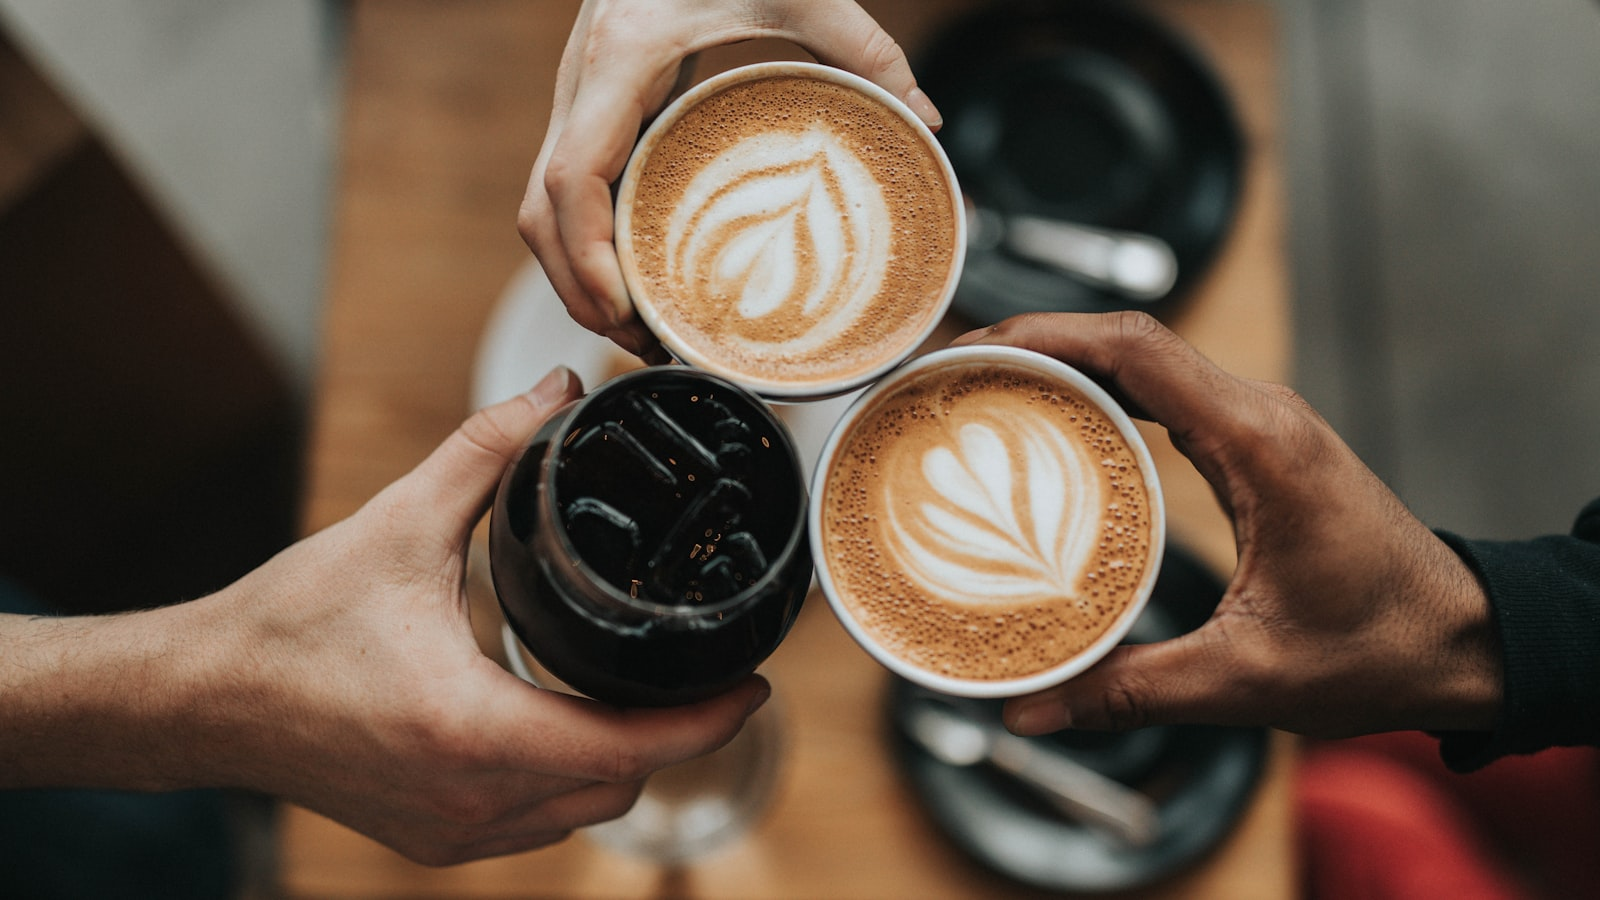
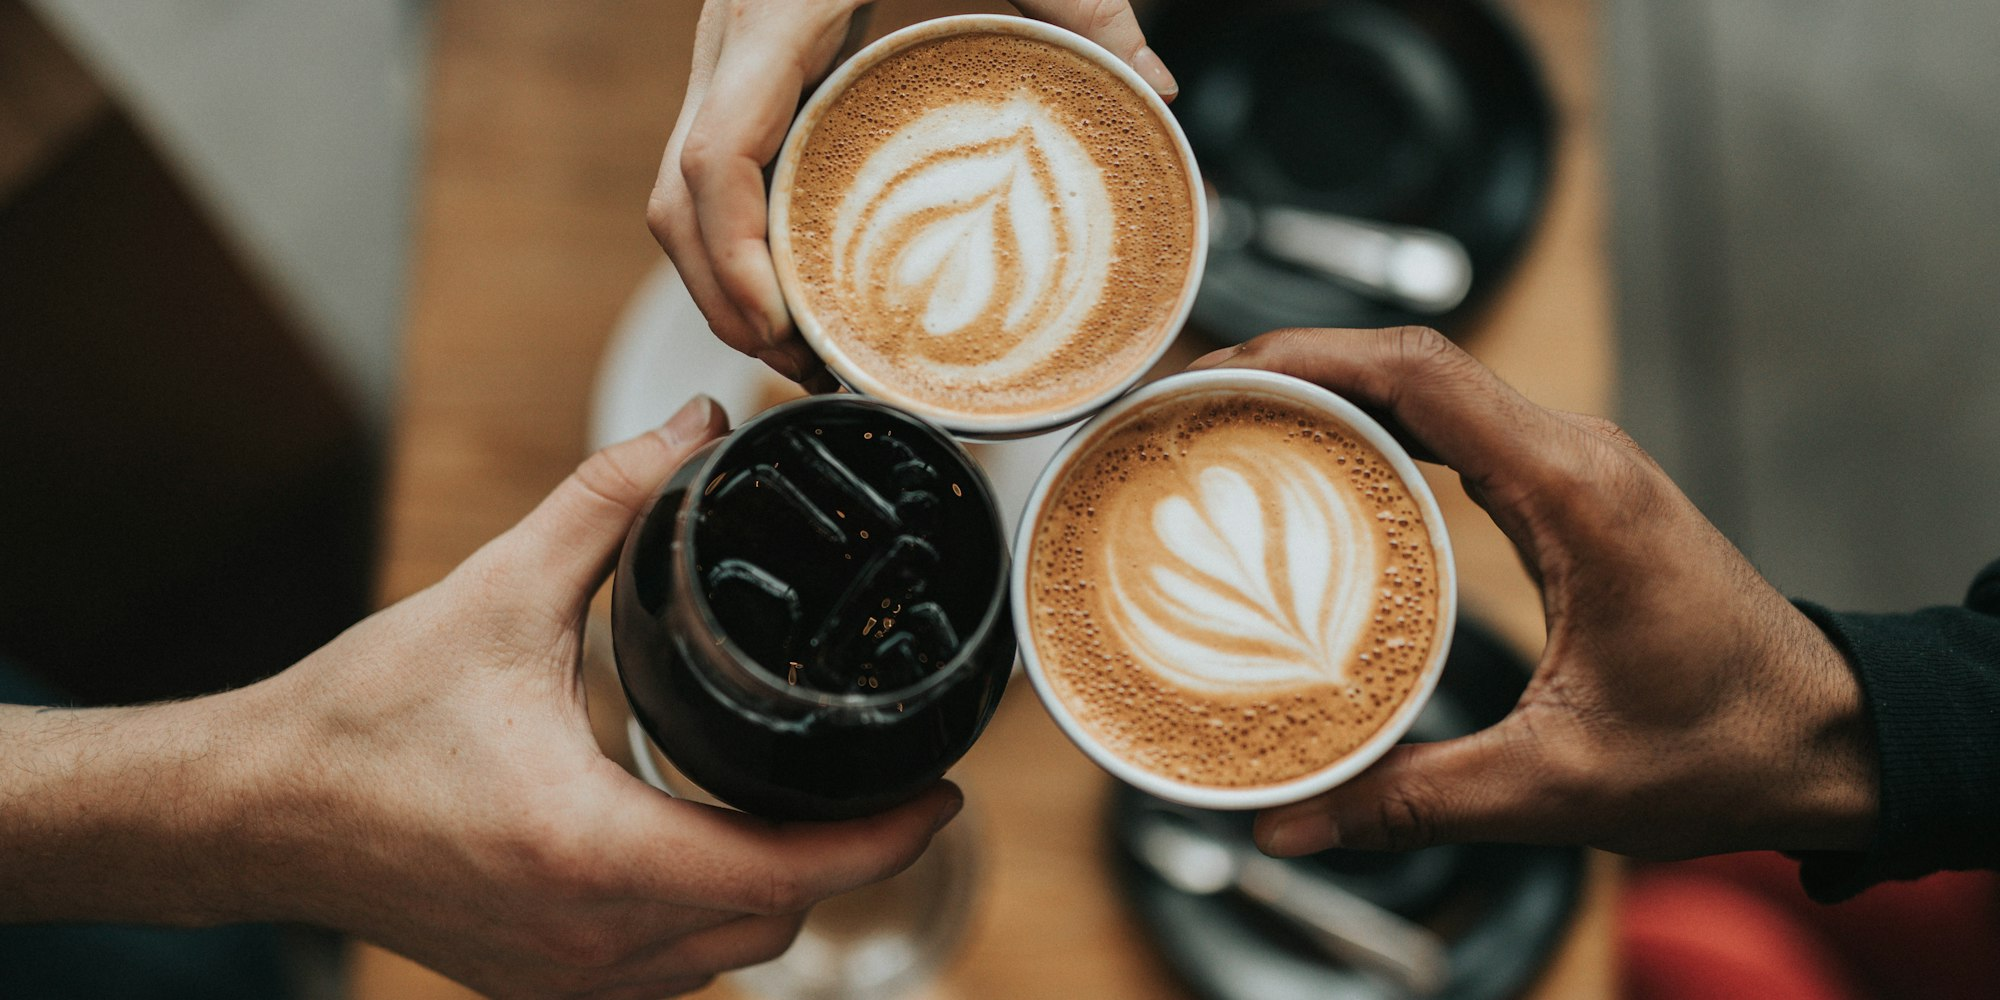
Hero images v2: 2:1 ratio (less cropping), text-free medical + barbers, main page category tiles now use curated hero art
- Refetched all category hero images at 2000x1000 (2:1) instead of
  1600x900 (16:9). Wider images match the shape of the hero band so
  the subject stops getting cropped on tall containers.
- Swapped four Unsplash IDs: barbers (was hair-close-up, now barber
  tools), hair-salons, nail-salons, lash-techs, spas-esthetics.
- Medical: was a photo with foreign-language text overlay; new one
  is a clean stethoscope shot, English-only.
- CategoryGrid on the homepage now uses /photos/_hero/{slug}.jpg
  instead of the top business's photo, so the main-page tiles and
  the category-page heroes are the same editorial imagery.

diff --git a/src/components/CategoryGrid.tsx b/src/components/CategoryGrid.tsx
@@ -1,5 +1,5 @@
 import Link from "next/link";
-import { getCategories, countByCategory, getBusinessesByCategory } from "@/lib/content";
+import { getCategories, countByCategory } from "@/lib/content";
 import { CategoryIcon } from "./CategoryIcon";
 
 // Categories that get the big hero-photo treatment on the homepage.
@@ -31,10 +31,9 @@ export function CategoryGrid() {
       <div className="grid gap-4 sm:grid-cols-2 lg:grid-cols-4">
         {heroCats.map((c) => {
           const info = counts[c.slug];
-          const businesses = getBusinessesByCategory(c.slug)
-            .filter((b) => b.photos?.[0])
-            .sort((a, b) => (b.rating ?? 0) - (a.rating ?? 0) || (b.review_count ?? 0) - (a.review_count ?? 0));
-          const photo = businesses[0]?.photos?.[0];
+          // Prefer the curated editorial hero image for the category over
+          // the top business's photo.
+          const photo = `/photos/_hero/${c.slug}.jpg`;
 
           return (
             <Link
